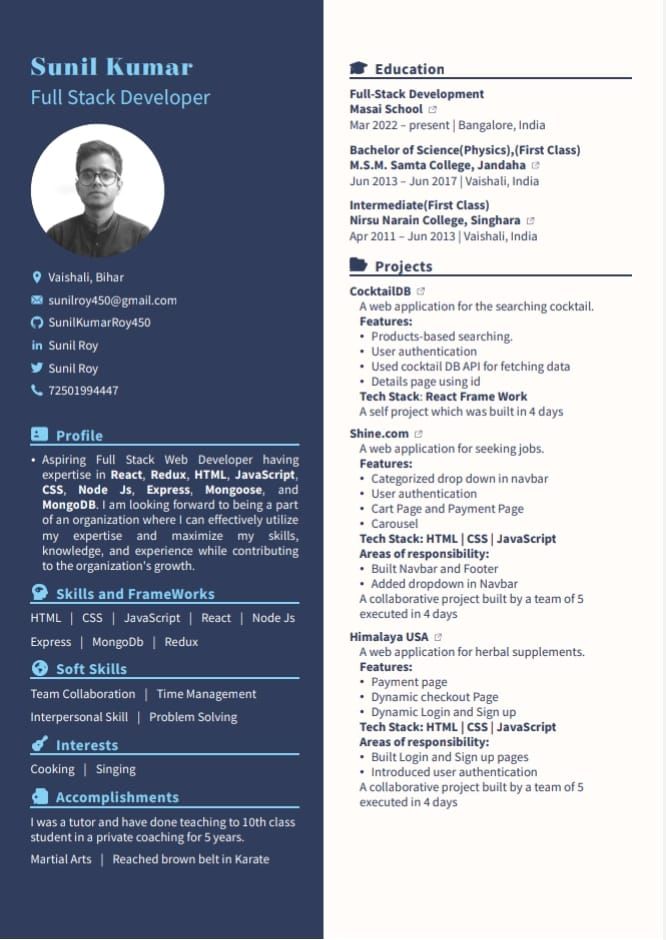
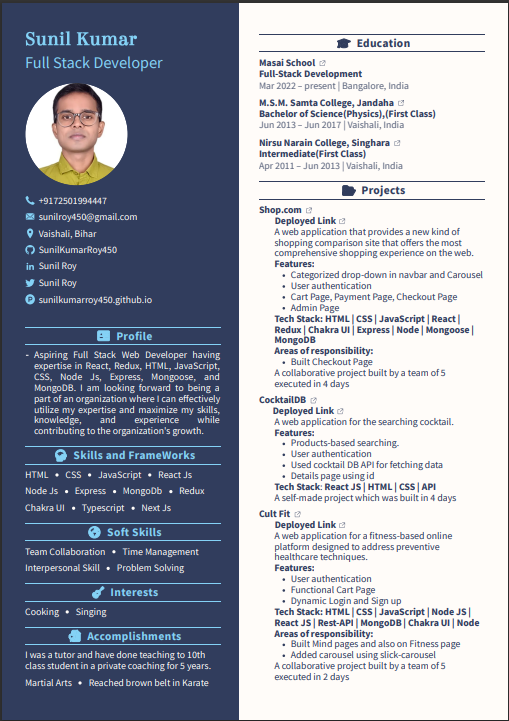
profile pic updated

Changed region(s): [[0.0, 0.0, 1.0, 1.0], [0.9725, 0.9764, 1.0, 1.0]]

diff --git a/sunil-portfolio/src/Components/Head/Head.jsx b/sunil-portfolio/src/Components/Head/Head.jsx
@@ -124,12 +124,12 @@ const Profile = styled.div`
   background-size: cover;
   img {
     width: 100%;
-    border-radius: 50%;
+    border-radius: 12%;
   }
   @media (max-width: 1000px) {
     img {
-      width: 60%;
-      border-radius: 50%;
+      width: 50%;
+      border-radius: 12%;
     }
   }
 `;
